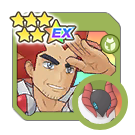
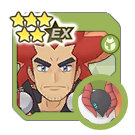
Fix Alder's EX and add limited lodge trainers

Changed region(s): [[0.1185, 0.1185, 0.8593, 0.8593]]

diff --git a/index.html b/index.html
@@ -20,6 +20,7 @@
 				<tr>
 					<th></th>
 					<th>Event</th>
+					<th>Lodge</th>
 					<th>Poké Fair</th>
 					<th>Seasonal</th>
 					<th>Master Fair</th>
@@ -32,6 +33,8 @@
 						<img class="syncpair" src="syncpairs/1_jessie_arbok.png">
 						<img class="syncpair" src="syncpairs/1_blue_arcanine.png">
 						<img class="syncpair" src="syncpairs/7_naomi_sandslash.png">
+					</td>
+					<td class="lodge">
 					</td>
 					<td class="pokefair">
 						<img class="syncpair" src="syncpairs/1_lance_dragonite.png">
@@ -83,6 +86,10 @@
 					<td class="event">
 						<img class="syncpair" src="syncpairs/1_james_weezing.png">
 					</td>
+					<td class="lodge">
+						<img class="syncpair" src="syncpairs/5_n_sigilyph.png">
+						<img class="syncpair" src="syncpairs/8_marnie_toxicroak.png">
+					</td>
 					<td class="pokefair">
 						<img class="syncpair" src="syncpairs/1_leaf_venusaur.png">
 						<img class="syncpair" src="syncpairs/8_marnie_morpeko.png">
@@ -128,6 +135,9 @@
 						<img class="syncpair" src="syncpairs/2_bugsy_scyther.png">
 						<img class="syncpair" src="syncpairs/1_misty_psyduck.png">
 						<img class="syncpair" src="syncpairs/1_giovanni_persian.png">
+					</td>
+					<td class="lodge">
+						<img class="syncpair" src="syncpairs/4_cynthia_gastrodon.png">
 					</td>
 					<td class="pokefair">
 						<img class="syncpair" src="syncpairs/1_blue_blastoise.png">
